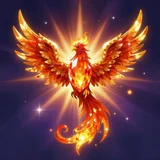
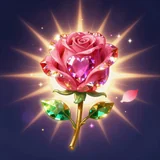
Diamond Drop: the rarest gem is now the Fablet Rose (#586)
* Diamond Drop: the rarest gem is now the Fablet Rose

* Diamond Drop: paint the Fablet Rose

---------

diff --git a/src/games/diamond/art/draw.ts b/src/games/diamond/art/draw.ts
@@ -75,7 +75,7 @@ export const GEM_LOOK: Record<GemId, { fill: string; dark: string; light: string
   rainbowOpal: { fill: '#f2e9ff', dark: '#6d4fa3', light: '#ffffff', shape: 'an oval full of rainbow colours' },
   dragonEye: { fill: '#3fd16b', dark: '#0e4a22', light: '#e8ff7a', shape: 'an eye with a slit' },
   galaxyGem: { fill: '#3b1c8f', dark: '#120633', light: '#c9b6ff', shape: 'a round ball full of stars' },
-  phoenixGem: { fill: '#ff7a1a', dark: '#7a1600', light: '#fff07a', shape: 'a flame with wings' },
+  phoenixGem: { fill: '#ff4f8b', dark: '#7a0f3a', light: '#ffe9a8', shape: 'a crystal rose' },
 };
 
 /** The glow colours of each rare tier: [main, bright]. */
@@ -270,20 +270,26 @@ export function drawGem(ctx: Ctx, gem: GemId, x: number, y: number, r: number, o
       break;
     }
     case 'phoenixGem': {
-      // Wings either side, then a flame-shaped gem in the middle.
+      // The Fablet Rose (its id stays phoenixGem): a gold stem and two leaves, then rings of petals round a gem heart.
+      ctx.strokeStyle = opts.shadow ? fill : '#d9a520'; ctx.lineWidth = Math.max(1.5, r * 0.1);
+      ctx.beginPath(); ctx.moveTo(x, y + r * 0.4); ctx.lineTo(x, y + r * 1.05); ctx.stroke();
       for (const side of [-1, 1]) {
-        ctx.beginPath(); ctx.moveTo(x + side * r * 0.3, y + r * 0.1);
-        ctx.quadraticCurveTo(x + side * r * 1.2, y - r * 0.2, x + side * r * 1.15, y - r * 0.85);
-        ctx.quadraticCurveTo(x + side * r * 0.9, y - r * 0.3, x + side * r * 0.3, y - r * 0.25); ctx.closePath();
-        ctx.fillStyle = opts.shadow ? fill : '#ffb020'; ctx.fill(); ctx.stroke();
+        ctx.beginPath(); ctx.ellipse(x + side * r * 0.32, y + r * 0.78, r * 0.3, r * 0.13, side * -0.5, 0, Math.PI * 2);
+        ctx.fillStyle = opts.shadow ? fill : '#2fbf6a'; ctx.fill();
       }
-      ctx.beginPath(); ctx.moveTo(x, y - r);
-      ctx.bezierCurveTo(x + r * 0.25, y - r * 0.55, x + r * 0.65, y - r * 0.2, x + r * 0.5, y + r * 0.35);
-      ctx.arc(x, y + r * 0.35, r * 0.5, 0, Math.PI);
-      ctx.bezierCurveTo(x - r * 0.65, y - r * 0.2, x - r * 0.25, y - r * 0.55, x, y - r); ctx.closePath();
-      if (!opts.shadow) { const g = ctx.createLinearGradient(x, y - r, x, y + r); g.addColorStop(0, '#fff07a'); g.addColorStop(0.5, fill); g.addColorStop(1, '#c81e1e'); ctx.fillStyle = g; } else ctx.fillStyle = fill;
-      ctx.fill(); ctx.stroke();
-      ctx.fillStyle = light; ctx.beginPath(); ctx.ellipse(x, y + r * 0.2, r * 0.16, r * 0.3, 0, 0, Math.PI * 2); ctx.fill();
+      ctx.strokeStyle = dark; ctx.lineWidth = Math.max(1, r * 0.06);
+      for (const [ring, size, petals, turn] of [[0.55, 0.42, 6, 0], [0.32, 0.34, 5, 0.6]] as const) {
+        for (let i = 0; i < petals; i++) {
+          const a = (i / petals) * Math.PI * 2 + turn;
+          const px = x + Math.cos(a) * r * ring, py = y - r * 0.05 + Math.sin(a) * r * ring * 0.85;
+          ctx.beginPath(); ctx.ellipse(px, py, r * size, r * size * 0.8, a, 0, Math.PI * 2);
+          if (!opts.shadow) { const g = ctx.createRadialGradient(x, y, r * 0.1, px, py, r * size); g.addColorStop(0, fill); g.addColorStop(0.7, '#d81b60'); g.addColorStop(1, '#ffd36b'); ctx.fillStyle = g; } else ctx.fillStyle = fill;
+          ctx.fill(); ctx.stroke();
+        }
+      }
+      ctx.beginPath(); ctx.arc(x, y - r * 0.05, r * 0.24, 0, Math.PI * 2);
+      ctx.fillStyle = opts.shadow ? fill : '#ff9ec4'; ctx.fill(); ctx.stroke();
+      ctx.fillStyle = light; ctx.beginPath(); ctx.ellipse(x - r * 0.07, y - r * 0.12, r * 0.08, r * 0.12, -0.4, 0, Math.PI * 2); ctx.fill();
       break;
     }
   }

diff --git a/shared/diamond/config.ts b/shared/diamond/config.ts
@@ -102,7 +102,7 @@ export const RARE_GEMS: readonly RareGem[] = [
   { id: 'rainbowOpal', name: 'Rainbow Opal', chance: 0.15, tier: 'rare', value: 50, weight: 'medium', slip: 0.35, r: 24, minY: 510, about: 'Every colour of the rainbow, dancing inside.' },
   { id: 'dragonEye', name: "Dragon's Eye", chance: 0.1, tier: 'epic', value: 75, weight: 'medium', slip: 0.4, r: 25, minY: 520, about: 'Some say it still watches the dragon’s treasure.' },
   { id: 'galaxyGem', name: 'Galaxy Gem', chance: 0.05, tier: 'epic', value: 120, weight: 'medium', slip: 0.4, r: 25, minY: 540, about: 'A whole galaxy of stars, small enough to hold.' },
-  { id: 'phoenixGem', name: 'Phoenix Gem', chance: 0.01, tier: 'legendary', value: 250, weight: 'medium', slip: 0.45, r: 26, minY: 560, about: 'Born from fire. Only the luckiest miners ever see one.' },
+  { id: 'phoenixGem', name: 'Fablet Rose', chance: 0.01, tier: 'legendary', value: 250, weight: 'medium', slip: 0.45, r: 26, minY: 560, about: 'A rose made of glowing crystal. Only the luckiest miners ever see one.' },
 ];
 export const RARE_IDS: readonly RareId[] = RARE_GEMS.map((g) => g.id);
 export const isRare = (id: GemId | undefined | null): id is RareId => !!id && (RARE_IDS as readonly string[]).includes(id);
@@ -268,7 +268,7 @@ export const ACHIEVEMENTS = [
   { id: 'diamond-lucky-find', name: 'Lucky Find', emoji: '🍀', measure: 'diamond_rare_kinds', goal: 1, for: 'Catch your first rare gem' },
   { id: 'diamond-rare-hunter', name: 'Rare Hunter', emoji: '🔮', measure: 'diamond_rare_kinds', goal: 4, for: 'Catch 4 different rare gems' },
   { id: 'diamond-rare-hoard', name: 'Rare Hoard', emoji: '👑', measure: 'diamond_rare_total', goal: 25, for: 'Catch 25 rare gems' },
-  { id: 'diamond-phoenix', name: 'Phoenix Finder', emoji: '🔥', measure: 'diamond_phoenix', goal: 1, for: 'Catch the Phoenix Gem (1% chance!)' },
+  { id: 'diamond-phoenix', name: 'Fablet Rose Finder', emoji: '🌹', measure: 'diamond_phoenix', goal: 1, for: 'Catch the Fablet Rose (1% chance!)' },
   { id: 'diamond-full-book', name: 'Complete Collection', emoji: '🏆', measure: 'diamond_rare_kinds', goal: 7, for: 'Catch all 7 rare gems' },
 ] as const;
 /** Gem Book trophy steps: different rare gems caught for bronze, silver and gold (the Rare Gem Cup). */

diff --git a/src/avatar/earnedPictures.ts b/src/avatar/earnedPictures.ts
@@ -58,7 +58,7 @@ export const EARNED_PICTURES: Record<string, PictureArt> = {
   'gem-crown': painted('👑', 'gem-crown'),
   'trader-blackhole': painted('🕳', 'black-hole'),
   'diamond-heart': painted('💎', 'heart-diamond'),
-  'diamond-phoenix': painted('🔥', 'phoenix-gem'),
+  'diamond-phoenix': painted('🌹', 'phoenix-gem'),
   'toonflap-rainbow': painted('🌈', 'rainbow-toon'),
   'chess-crown': painted('♛', 'chess-crown'),
   'checkers-crown': painted('⛀', 'checkers-crown'),

diff --git a/supabase/functions/diamond/index.ts b/supabase/functions/diamond/index.ts
@@ -8320,7 +8320,7 @@ const RARE_GEMS = [
 	},
 	{
 		id: "phoenixGem",
-		name: "Phoenix Gem",
+		name: "Fablet Rose",
 		chance: .01,
 		tier: "legendary",
 		value: 250,
@@ -8328,7 +8328,7 @@ const RARE_GEMS = [
 		slip: .45,
 		r: 26,
 		minY: 560,
-		about: "Born from fire. Only the luckiest miners ever see one."
+		about: "A rose made of glowing crystal. Only the luckiest miners ever see one."
 	}
 ];
 const RARE_IDS = RARE_GEMS.map((g) => g.id);

diff --git a/src/news/hubNews.ts b/src/news/hubNews.ts
@@ -26,7 +26,7 @@ export const HUB_NEWS: NewsItem[] = [
     date: '2026-11-18',
     emoji: '💎',
     title: 'Rare gems in Diamond Drop',
-    text: 'A pupil’s idea! Seven sparkly rare gems hide deep down. Can you find the 1% Phoenix Gem?',
+    text: 'A pupil’s idea! Seven sparkly rare gems hide deep down. Can you find the 1% Fablet Rose?',
     game: 'diamond',
   },
   {

diff --git a/docs/DIAMOND-PLAN.md b/docs/DIAMOND-PLAN.md
@@ -394,4 +394,4 @@ James, 2 Nov 2026: "do everything we can without the gaming computer art". So St
 
 **One Shop, bigger Nugget, 3 Nov 2026 (PR #149, live).** James found a Shop and a Workshop confusing for kids, and chose one **Shop** with two tabs: **Boosts for level N** (the old shop, with Start) and **Claw looks** (the old Claw Workshop, now `src/games/diamond/ClawLooks.tsx`). The map's Workshop button is gone. After a level the Shop opens on Boosts; from the map it opens on Claw looks when the next-step line is about one. Inside the code and on the server it is still called the workshop (`shared/diamond/workshop.ts`, `buy`/`wear`). Nugget is bigger: 120 on the map (was 72) and 80 in a level (was 50).
 
-**Rare gems and the Rare Gem Collection, 18 Nov 2026 (a pupil's idea, branch `claude/diamond-rare-gems`).** Seven rare gems that only *sometimes* turn up, at most one per level, buried near the bottom: Moonstone 30%, Sunstone 25%, Frost Crystal 20%, Rainbow Opal 15%, Dragon's Eye 10%, Galaxy Gem 5%, Phoenix Gem 1% (James: the game tries the rarest first, so those are the real odds). They use their own random stream (`STREAM.rare`), so every other part of a field is unchanged. They can slip and ask a Hold on! question like other gems (James). A banner shows when one is in the level and again when it is caught, with a burst on the canvas; the level end gets a "New page in your Gem Book!" card. The Gem Book's new top part, **The Rare Gem Collection**, keeps every kind caught, how many and the first date (`lifetime.rare`, kept through New Season). Rewards (migration `20261118003400_diamond_rare_gems.sql`): achievements Lucky Find (1 kind), Rare Hunter (4), Rare Hoard (25 caught), Phoenix Finder, Complete Collection (all 7); the **Rare Gem Cup** trophy (bronze 3, silver 5, gold 7 kinds) and the **Phoenix Gem** picture, given by a trigger on `diamond_players`. All pictures painted on the gaming PC (`docs/diamond-rare-art/`); the code-drawn gems are only the fallback.
+**Rare gems and the Rare Gem Collection, 18 Nov 2026 (a pupil's idea, branch `claude/diamond-rare-gems`).** Seven rare gems that only *sometimes* turn up, at most one per level, buried near the bottom: Moonstone 30%, Sunstone 25%, Frost Crystal 20%, Rainbow Opal 15%, Dragon's Eye 10%, Galaxy Gem 5%, Fablet Rose 1% (James: the game tries the rarest first, so those are the real odds). They use their own random stream (`STREAM.rare`), so every other part of a field is unchanged. They can slip and ask a Hold on! question like other gems (James). A banner shows when one is in the level and again when it is caught, with a burst on the canvas; the level end gets a "New page in your Gem Book!" card. The Gem Book's new top part, **The Rare Gem Collection**, keeps every kind caught, how many and the first date (`lifetime.rare`, kept through New Season). Rewards (migration `20261118003400_diamond_rare_gems.sql`): achievements Lucky Find (1 kind), Rare Hunter (4), Rare Hoard (25 caught), Fablet Rose Finder, Complete Collection (all 7); the **Rare Gem Cup** trophy (bronze 3, silver 5, gold 7 kinds) and the **Fablet Rose** picture, given by a trigger on `diamond_players`. All pictures painted on the gaming PC (`docs/diamond-rare-art/`); the code-drawn gems are only the fallback. Renamed the Fablet Rose (James, 18 Nov 2026), repainted as a crystal rose; ids still say phoenix.
